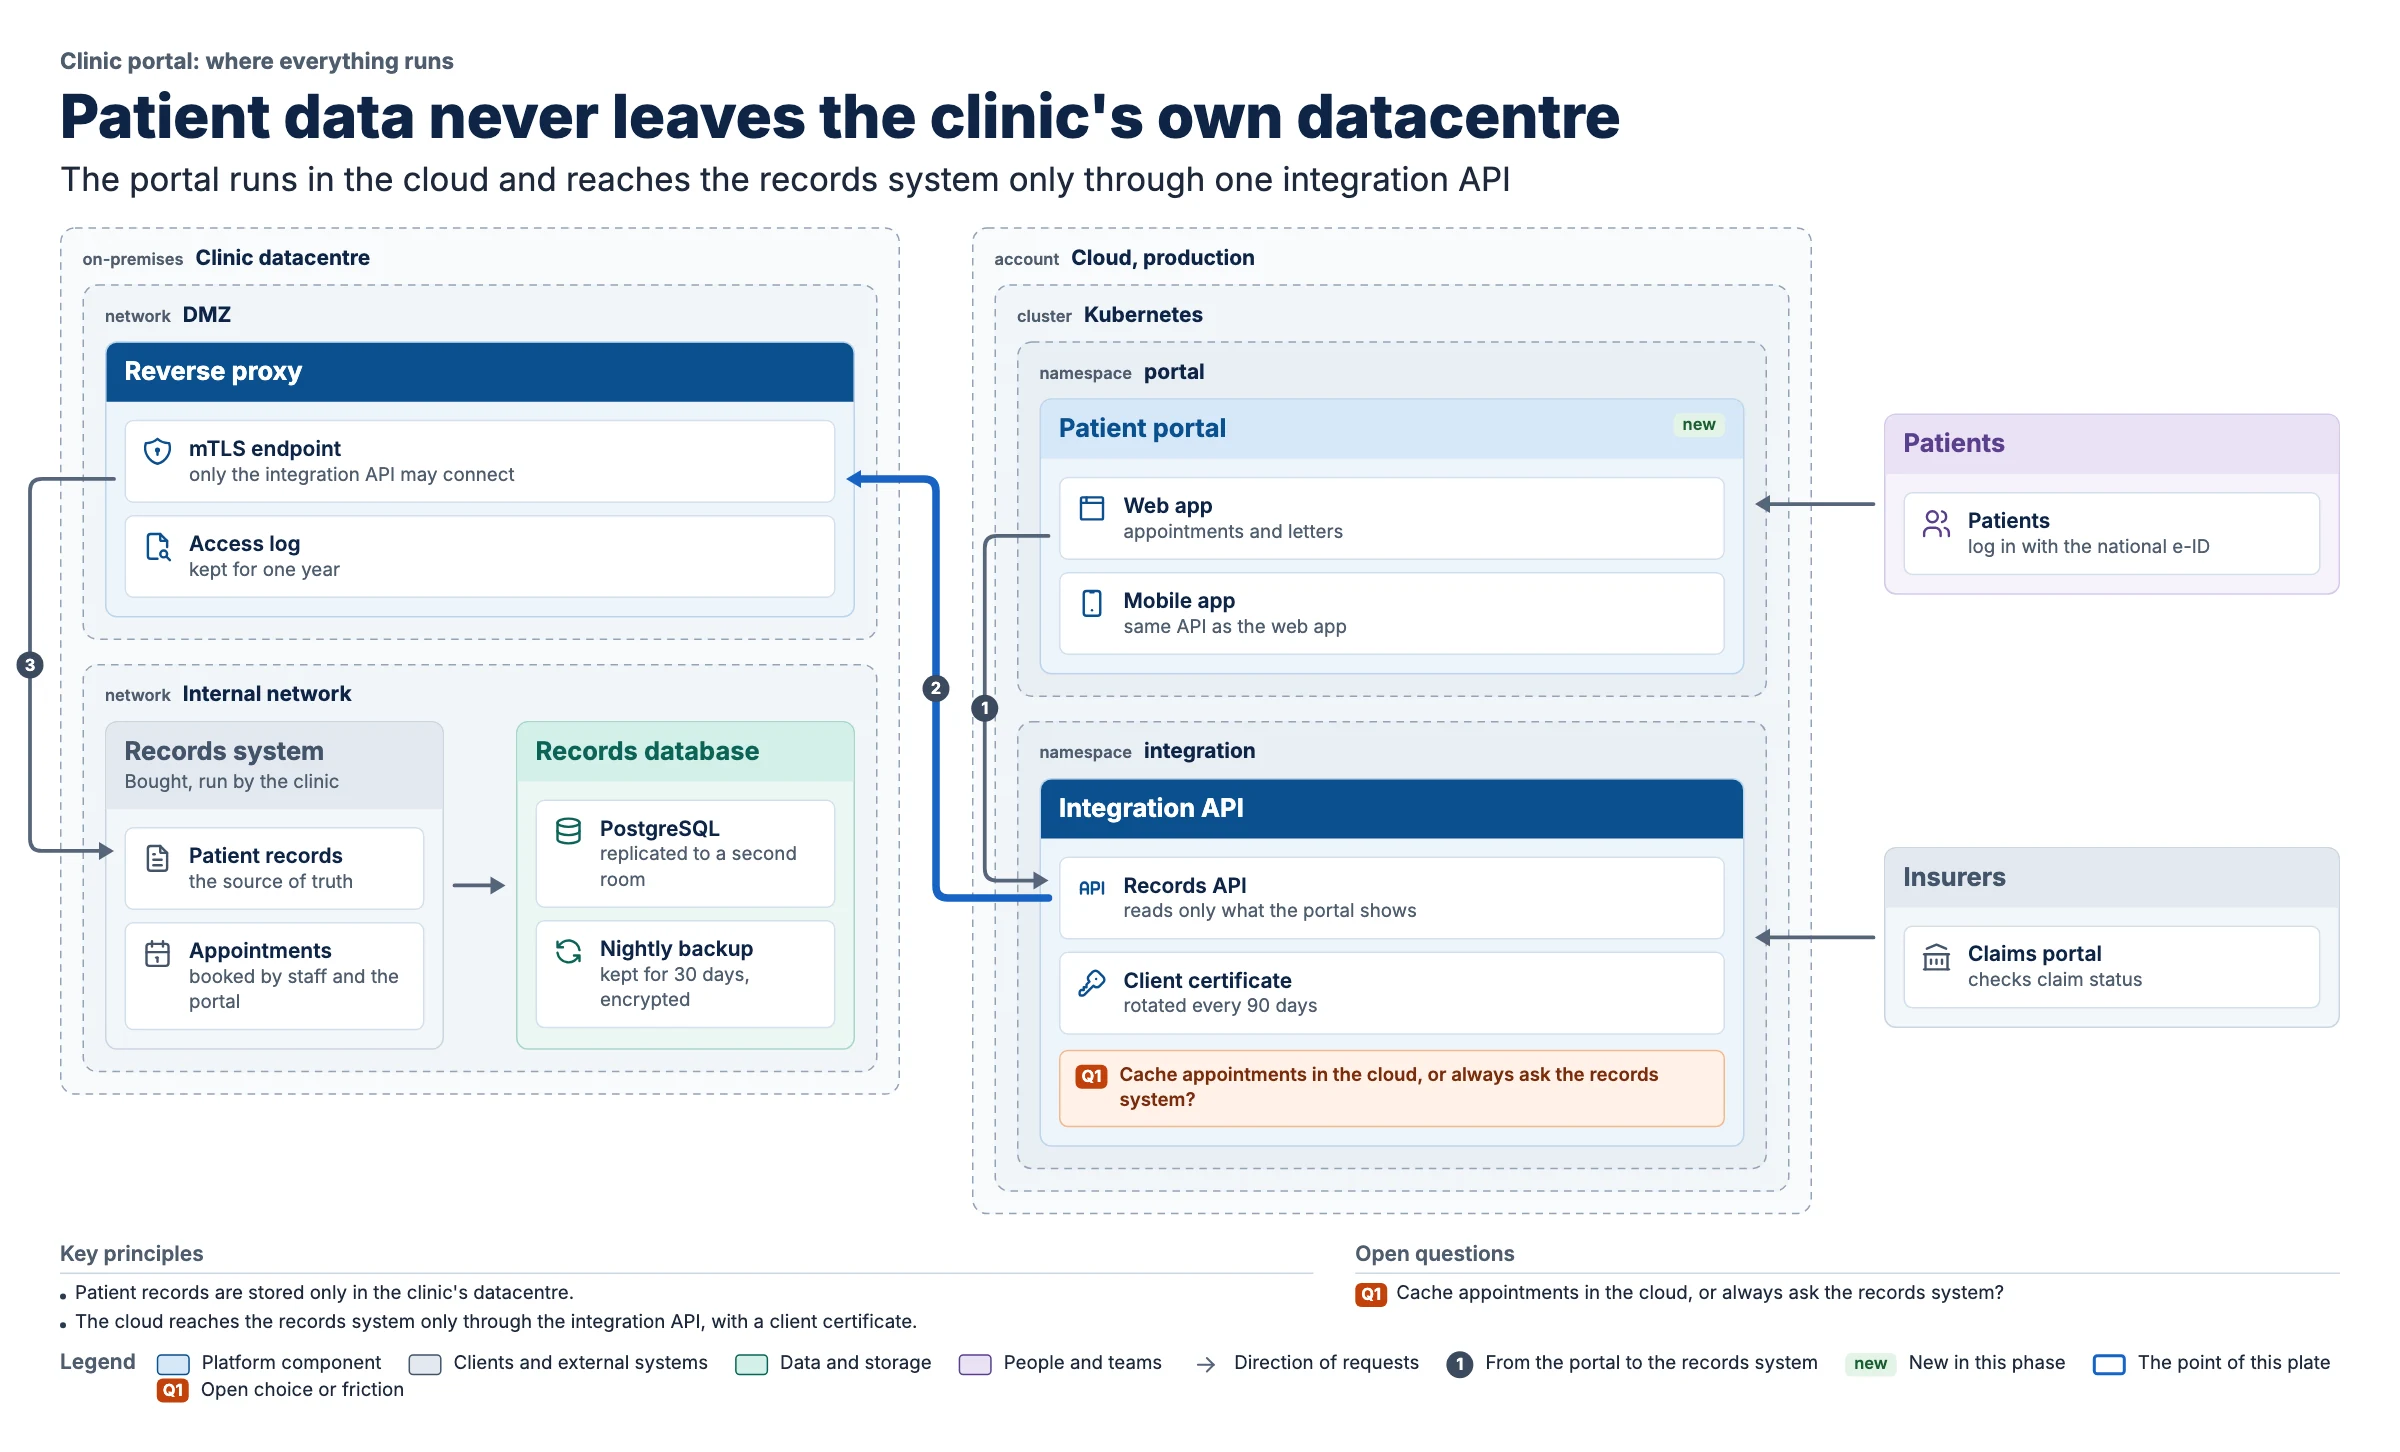
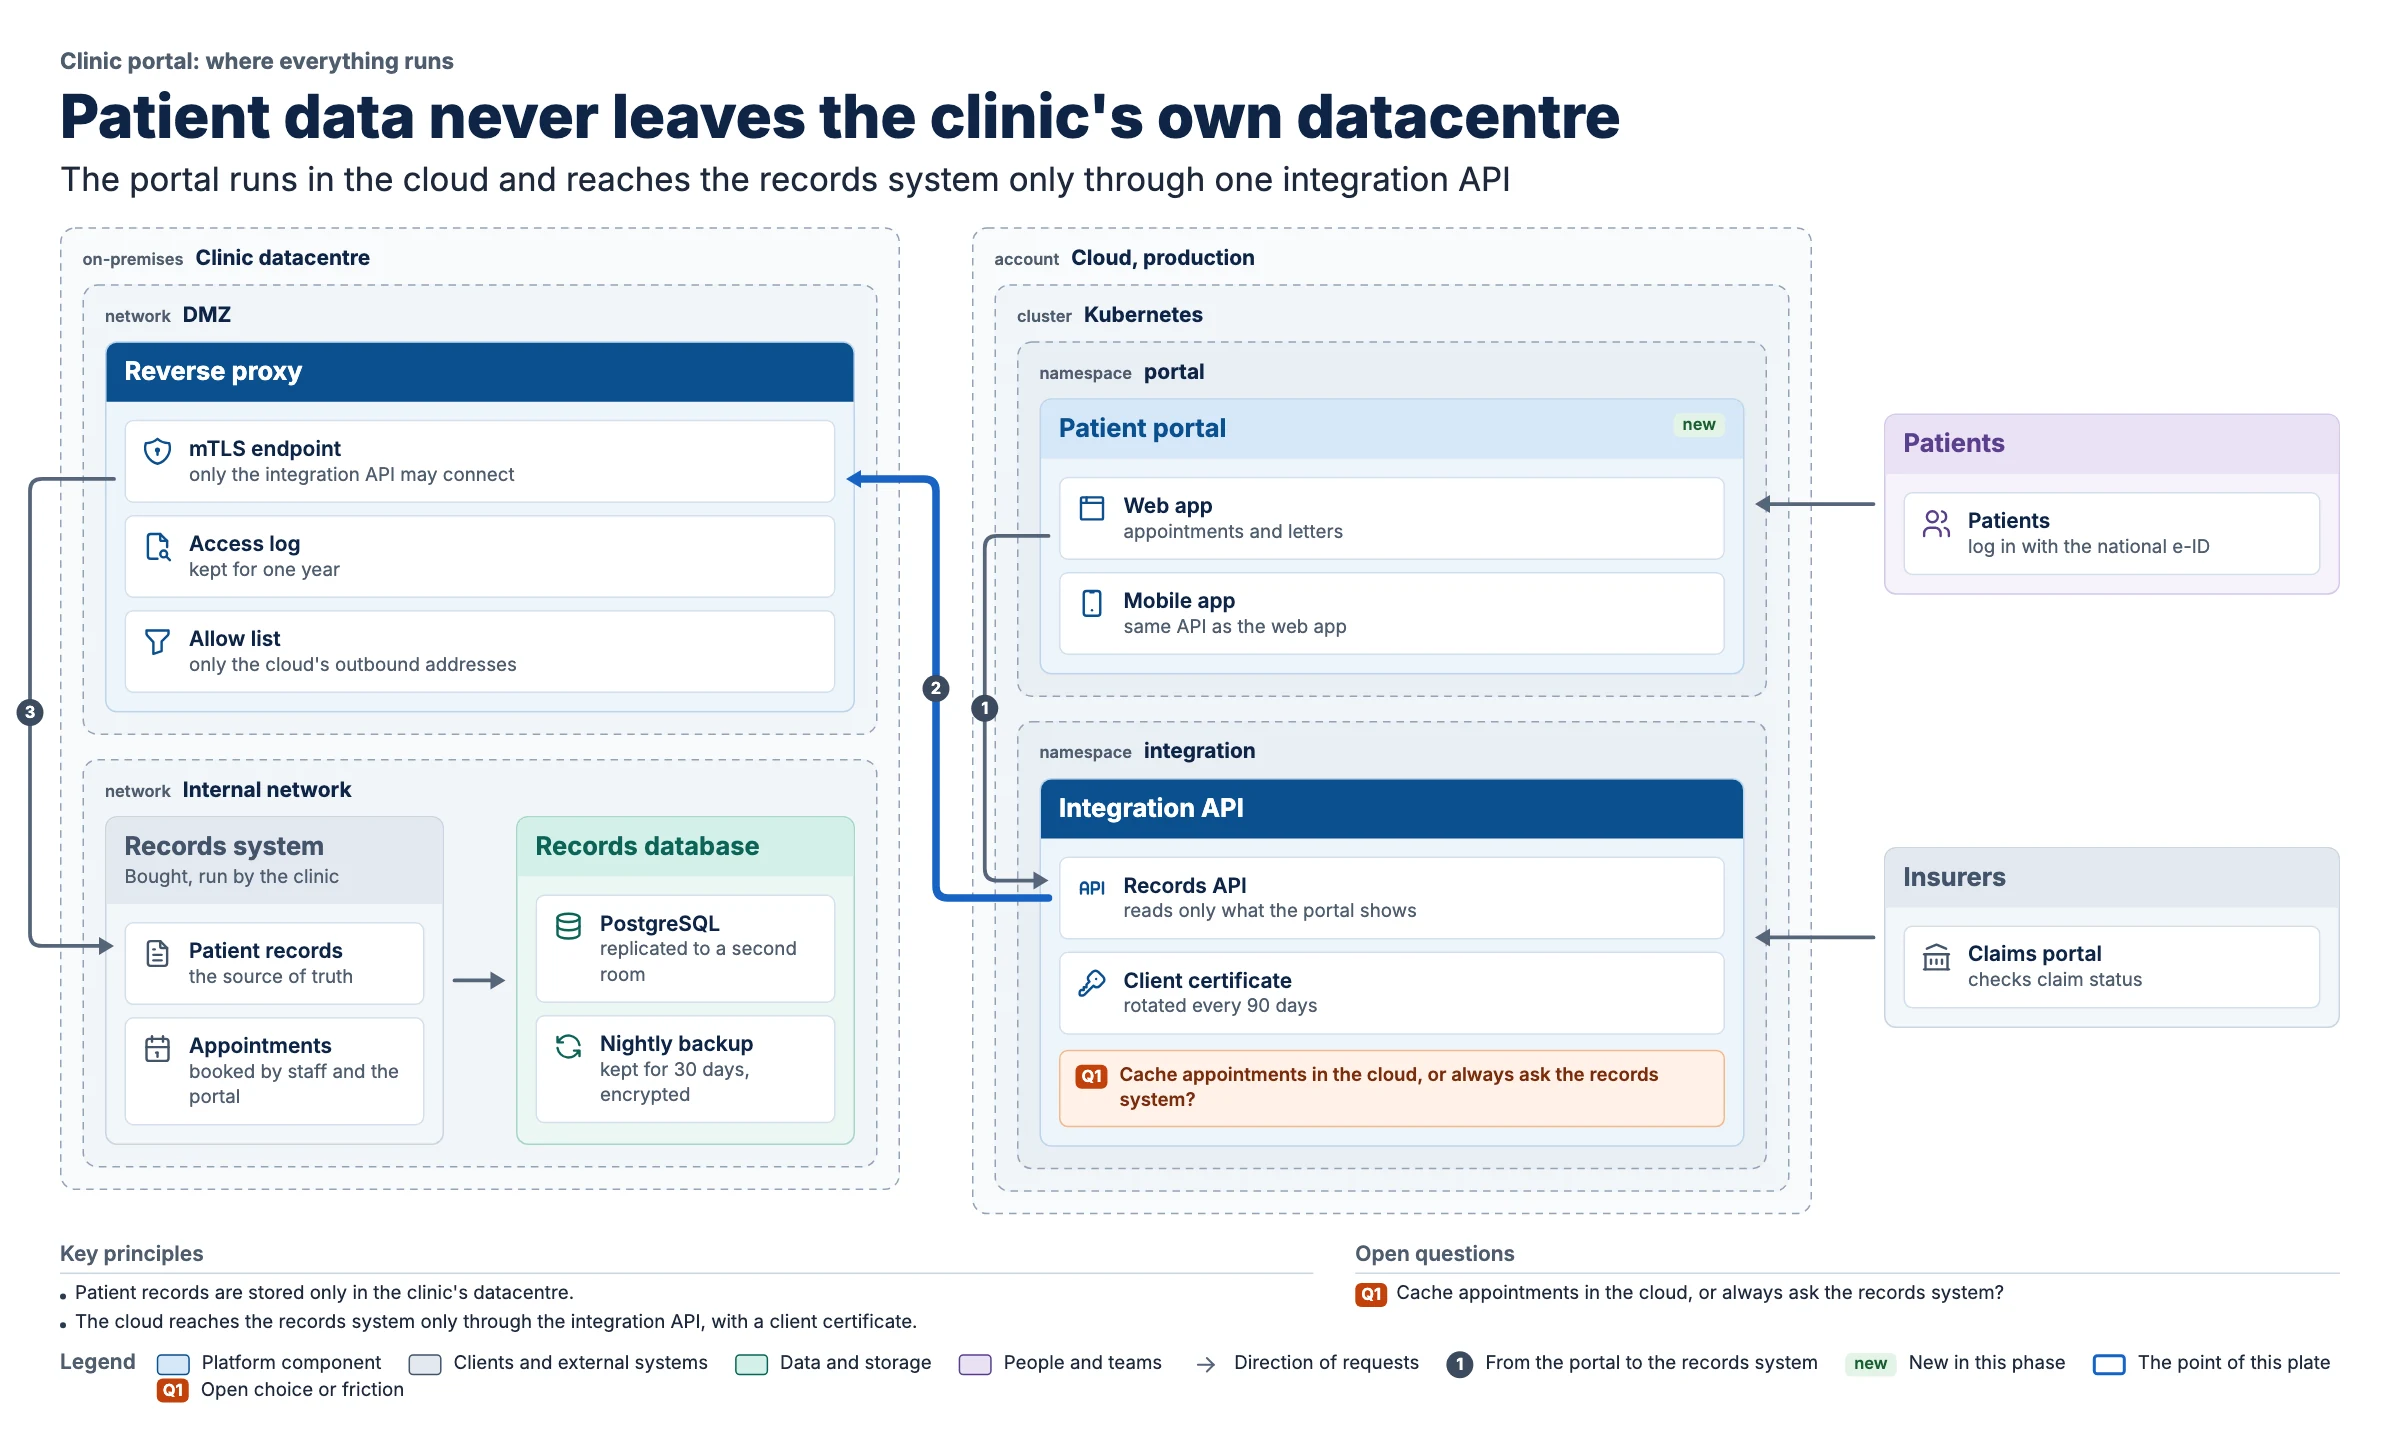
Warn on a hole at the size a judge sees it
Holes were the largest defect group in the last eval (54 of 149), and lint saw 9 of the 50 plates that had one. Measured
on those plates: every one of the 17 with 48 px or more below a panel that ends above its row was faulted for holes,
and every one of the 4 with 64 px or more inside a panel, where lint warned from 96. void now warns from 48 px below
a panel or zone and from 64 px inside one; an empty cell and a blank band stay at 96.

Two examples had such a gap themselves, and agents copy examples: kliniek-zones gets a third card in its reverse proxy,
so the datacentre ends level with the cloud account, and the security rail of ontwikkelplatform-lagen a second bullet.
Both pictures change by that much.

Changed region(s): [[0.0, 0.4339, 0.375, 0.7748], [0.3438, 0.7438, 0.375, 0.7748], [0.1875, 0.6508, 0.2188, 0.6818]]

diff --git a/schemantic/js/lint.js b/schemantic/js/lint.js
@@ -219,7 +219,7 @@ schemantic.lint = (cfg) => {
     gap = Math.max(gap, ib.b - 1 - cursor);
     voids[p.dataset.id] = Math.round(gap);
     density[p.dataset.id] = Math.round(Math.min(1, used / (ib.b - ib.t - 2)) * 100) / 100;
-    if (gap > cfg.voidError || gap > cfg.voidWarn)
+    if (gap > cfg.voidInside)
       add(
         gap > cfg.voidError ? "error" : "warning",
         "void",
@@ -231,7 +231,7 @@ schemantic.lint = (cfg) => {
   // row (panels end with their content), and an empty run inside a zone frame.
   const outside = (id, gap, where) => {
     voids[`outside.${id}`] = Math.round(gap);
-    if (gap > cfg.voidWarn)
+    if (gap > cfg.voidBeside)
       add(
         "warning",
         "void",

diff --git a/schemantic/lint.py b/schemantic/lint.py
@@ -11,9 +11,14 @@ from .config import MM_PER_PX, PRINT_FLOOR_PT, SLIDE_FLOOR_PX, TYPE_FLOOR_PX
 from .export import FONTS, covered, num
 from .findings import finding
 
-# A run of empty space inside a body panel longer than this reads as a hole in the plate (review question 4).
+# A run of empty space longer than this reads as a hole in the plate (review question 5): an empty cell, a blank band.
 VOID_WARN_PX = 96
 VOID_ERROR_PX = 160
+# Holes at a panel are seen sooner. Measured on the 96 judged plates of the eval of 2 November: every one of the 17 with
+# 48 px or more below a panel that ends above its row was faulted for holes, and every one of the 4 with 64 px or more
+# inside a panel; under that, a gap says nothing (11 of 18 plates with 32 to 48 px inside a panel, against 56 of 103 in all).
+VOID_BESIDE_PX = 48
+VOID_INSIDE_PX = 64
 # Cards a row-spanning panel spreads further apart than this share of their height (and this many px) float, and
 # read as holes: name-only cards 40 px apart do, cards with notes and bullets 47 px apart do not.
 SPREAD_SHARE = 0.75
@@ -142,6 +147,7 @@ def widow_findings(layout: dict, spec: dict) -> list[dict]:
 def dom_lint(page, segs: list[dict], slide: bool = False) -> dict:
     """{issues, density, voids} for the plate in `page`, with the routed connectors in `segs`."""
     return call(page, "lint", {"floor": SLIDE_FLOOR_PX if slide else TYPE_FLOOR_PX, "segs": segs,
-                               "voidWarn": VOID_WARN_PX, "voidError": VOID_ERROR_PX, "spreadShare": SPREAD_SHARE,
+                               "voidWarn": VOID_WARN_PX, "voidError": VOID_ERROR_PX, "voidBeside": VOID_BESIDE_PX,
+                               "voidInside": VOID_INSIDE_PX, "spreadShare": SPREAD_SHARE,
                                "spreadFloor": SPREAD_FLOOR_PX, "footerShare": FOOTER_SHARE, "footerFloor": FOOTER_FLOOR_PX,
                                "wideCard": WIDE_CARD_PX, "cardFill": CARD_FILL})

diff --git a/tests/test_checks.py b/tests/test_checks.py
@@ -171,6 +171,8 @@ def test_examples_have_no_voids_and_a_low_footer(path, mode, tmp_path):
     # (test_void_checks_empty_cells_spread_cards_and_a_blank_band); here the holes are those inside the plate.
     inside = {k: v for k, v in report["voids"].items() if k != "canvas"}
     assert max(inside.values()) <= limit, inside
+    if mode == "fit":  # an example shows no hole a judge would see: agents copy what the examples do
+        assert not [w["detail"] for w in report["warnings"] if w["check"] == "void"]
     boxes = json.loads(Path(report["snapshot"]).read_text(encoding="utf-8"))["boxes"]
     height = float(re.search(r'height="([\d.]+)"', (tmp_path / "_work" / f"{path.stem}.svg").read_text()[:400]).group(1))
     footer = boxes["footer"][3] - boxes["footer"][1]
@@ -457,3 +459,12 @@ def test_replay_sorts_a_judges_defect_by_the_question_it_answers():
                                  "invented": ["Order feed, a card the plan does not name"]})
     assert {k: len(v) for k, v in kinds.items()} == {"holes": 1, "path": 1, "truth": 2, "other": 1}
     assert set(replay.ABOUT.values()) <= {k for k, _ in replay.KINDS}
+
+
+def test_a_gap_a_judge_sees_below_a_short_zone_is_reported(tmp_path):
+    """Lint warned from 96 px; on the judged plates every gap of 48 px or more below a panel or zone was faulted."""
+    spec = sp.load_spec(ROOT / "examples" / "kliniek-zones.yaml")
+    panel(spec, "proxy")["cards"].pop()  # the card that brings the datacentre level with the cloud account
+    report = pipeline.build(write(tmp_path, spec, "short-zone"), tmp_path, deliver=False)
+    found = [w for w in report["warnings"] if w["check"] == "void"]
+    assert [w["id"] for w in found] == ["zone.dc"] and 48 < int(found[0]["detail"].split("px")[0]) < 96

diff --git a/schemantic/findings.py b/schemantic/findings.py
@@ -160,9 +160,10 @@ CHECKS: dict[str, Check] = {
                    "Shorten the title by a few words so its last line is not a single word."),
     "chip-length": Check("layout", "a chip runs to three lines", "shorten it to one clear sentence",
                          "Shorten the chip to one sentence of about 50 characters."),
-    "void": Check("layout", "a run of empty space inside a body panel (warning over 96 px, error over 160 px), below a short "
-                  "panel next to taller ones in its row, inside a zone frame, in an empty cell of `layout.areas`, or as a "
-                  "blank band under the footer or around a plate on paper (warning over 96 px); or cards a row-spanning "
+    "void": Check("layout", "a run of empty space inside a body panel (warning over 64 px, error over 160 px), below a short "
+                  "panel next to taller ones in its row or inside a zone frame (warning over 48 px), in an empty cell of "
+                  "`layout.areas`, or as a blank band under the footer or around a plate on paper (warning over 96 px); or "
+                  "cards a row-spanning "
                   "panel spreads apart by most of a card's height",
                   "add real content (bullets, a pattern, an info chip); move the panel next to one of its height; merge it "
                   "with a neighbour; let a panel span an empty cell; give a spread panel fewer rows; in nested zones, put "

diff --git a/references/lint-fixes.md b/references/lint-fixes.md
@@ -54,7 +54,7 @@ Every finding names an element id (`gateway`, `services.card2`, `flows/3`, `foot
 | `footer-share` | the footer takes more than an eighth (12.5%) of the plate's height, and more than two lines over the legend (warning) | fewer principles (three that a team could check), shorter open questions, no context panel unless the roles matter to the message; the footer is context for the body |
 | `widow` | the topic, title or subtitle ends with a single word on a line of its own | cut a few words, or rephrase so the line breaks between phrases; a headline reads best on one line |
 | `chip-length` | a chip runs to three lines | shorten it to one clear sentence |
-| `void` | a run of empty space inside a body panel (warning over 96 px, error over 160 px), below a short panel next to taller ones in its row, inside a zone frame, in an empty cell of `layout.areas`, or as a blank band under the footer or around a plate on paper (warning over 96 px); or cards a row-spanning panel spreads apart by most of a card's height | add real content (bullets, a pattern, an info chip); move the panel next to one of its height; merge it with a neighbour; let a panel span an empty cell; give a spread panel fewer rows; in nested zones, put short panels in a row under the zones (`outside_at: bottom`); on paper or a fixed height, let the plate grow taller (fewer `card_columns`, another row) or use `height: fit`; never filler |
+| `void` | a run of empty space inside a body panel (warning over 64 px, error over 160 px), below a short panel next to taller ones in its row or inside a zone frame (warning over 48 px), in an empty cell of `layout.areas`, or as a blank band under the footer or around a plate on paper (warning over 96 px); or cards a row-spanning panel spreads apart by most of a card's height | add real content (bullets, a pattern, an info chip); move the panel next to one of its height; merge it with a neighbour; let a panel span an empty cell; give a spread panel fewer rows; in nested zones, put short panels in a row under the zones (`outside_at: bottom`); on paper or a fixed height, let the plate grow taller (fewer `card_columns`, another row) or use `height: fit`; never filler |
 | `svg-parity` | the SVG differs from the measured layout | a renderer problem, not a spec problem: report it with the `detail` and the files in `out/_work/` |
 | `paint` | a theme uses CSS the SVG cannot draw (shadows, gradients, transforms, opacity, text-transform, letter-spacing, decoration, italics, outlines, non-solid borders, ::before/::after content) | remove it from the theme: the plate's styles are backgrounds, solid borders, radii, text (family, size, weight, colour) and icons, so the SVG matches the page |
 | `font` | text uses a font family that is not bundled, or characters the bundled fonts lack (CJK, emoji, some symbols) | use Inter (or DejaVu Sans Mono for code) and write the word instead of the symbol or emoji; the SVG embeds only bundled fonts, so anything else looks different on another machine |

diff --git a/CHANGELOG.md b/CHANGELOG.md
@@ -23,6 +23,10 @@ All notable changes to this project. The format follows [Keep a Changelog](https
   judges said, so a new check is tried on a hundred judged plates before any agent runs.
 
 ### Changed
+- `void` warns sooner at a panel: from 48 px below a panel or zone that ends above its row, and from 64 px inside a panel; an
+  empty cell and a blank band stay at 96 px. Measured on the judged plates of the last eval: all 17 with 48 px or more below a
+  panel were faulted for holes, and all 4 with 64 px or more inside one, while lint warned on 2 and 1 of them. Two examples
+  had such a gap and are filled in (`kliniek-zones`, `ontwikkelplatform-lagen`).
 - Panels in a row now end level on `hierarchy`, `decision-tree`, `state-machine` and `data-model`, however much shorter one is:
   the last eval's largest defect group was holes, many of them a blank band under the shorter panels of a row. The cards or the
   last block take up the height, and a panel of only a header is all header.

diff --git a/references/review.md b/references/review.md
@@ -24,7 +24,8 @@ left to you.
    system icons).
 5. **Holes.** Is any part of the plate visibly empty: a panel emptier than its neighbours, cards floating apart, a
    blank band? A last card fills its row and nearly level panels are evened out for you (on trees, state machines and data
-   models, all panels in a row); lint (`void`) warns at 96 px; a smaller hole you can see is still a defect.
+   models, all panels in a row); lint (`void`) warns from 48 px below a short panel and 64 px inside one; a smaller hole
+   you can see is still a defect.
 6. **Footer.** Does the footer draw the eye before the body? Its size is lint's (`footer-share`).
 7. **Words.** Is any name a term the reader would not know, or any note true of every system rather than this one?
    (No check can.)
